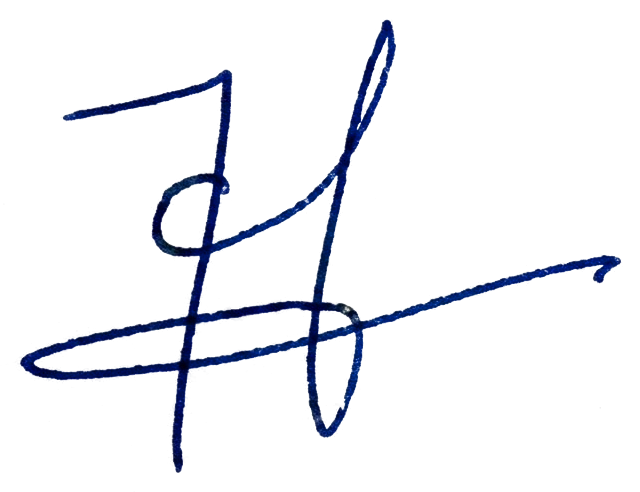
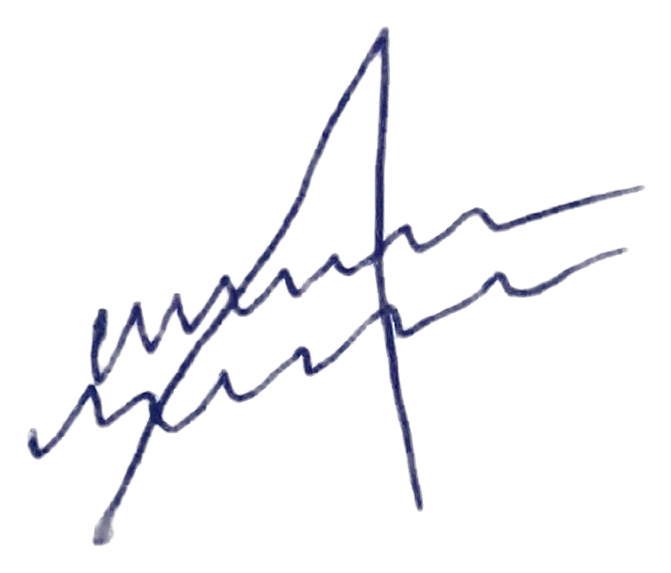
Add new cashier signature + school ink seal to cash receipts
- Replace cashier-signature.png with the new scanned signature,
  background removed (transparent PNG), ink untouched
- Add school-stamp.png (the school's official round ink seal),
  background removed, blue seal preserved exactly
- Render the seal on every Cash Receipt Voucher (paid/partial/voided)
  as a rotated, lightly translucent rubber-stamp impression in the
  lower-right, clear of the cashier's signature

Changed region(s): [[0.0312, 0.0305, 0.9688, 0.9756], [0.6562, 0.4573, 0.875, 0.5488], [0.875, 0.4268, 0.9375, 0.4573]]

diff --git a/src/components/Receipt.jsx b/src/components/Receipt.jsx
@@ -2,6 +2,7 @@ import React, { useRef, useState } from "react";
 import { Printer } from "lucide-react";
 import { Logo, Modal } from "./ui";
 import cashierSignatureSrc from "../assets/cashier-signature.png";
+import schoolStampSrc from "../assets/school-stamp.png";
 import { downloadElementAsPdf } from "../utils/pdf";
 import { formatMoney } from "../utils/constants";
 
@@ -15,6 +16,22 @@ function CashierSignatureImage({ height = 44, className = "" }) {
       alt="Cashier's signature"
       className={`inline-block align-bottom object-contain pointer-events-none ${className}`}
       style={{ height }}
+    />
+  );
+}
+
+// The school's real round ink seal (src/assets/school-stamp.png — background removed, blue kept
+// exactly as stamped). Placed like an actual rubber-stamp impression on the physical pad: sitting
+// over the footer near the cashier's signature, slightly rotated, a touch translucent so any text
+// underneath still reads. Applied to every voucher, paid or not, the way the school stamps its
+// whole receipt pad.
+function SchoolStamp({ size = 132, className = "" }) {
+  return (
+    <img
+      src={schoolStampSrc}
+      alt="Hiil Model School official seal"
+      className={`pointer-events-none select-none ${className}`}
+      style={{ width: size, height: "auto", opacity: 0.82, transform: "rotate(-8deg)", mixBlendMode: "multiply" }}
     />
   );
 }
@@ -74,7 +91,10 @@ function CashReceiptVoucher({
   const isKnownMethod = VOUCHER_METHODS.slice(0, -1).some((m) => m.key === method);
 
   return (
-    <div className="bg-[#fdf9f0] text-slate-900 font-serif border border-slate-900 p-5 text-[13px] leading-tight max-w-[720px] mx-auto">
+    <div className="relative bg-[#fdf9f0] text-slate-900 font-serif border border-slate-900 p-5 text-[13px] leading-tight max-w-[720px] mx-auto">
+      {/* Official school seal — stamped in the lower-right like on the physical pad, just clear of
+          the cashier's signature so both stay legible */}
+      <SchoolStamp size={128} className="absolute right-[8.5rem] bottom-2 z-10" />
       {/* Header */}
       <div className="flex items-start justify-between gap-4">
         <Logo size={64} />
